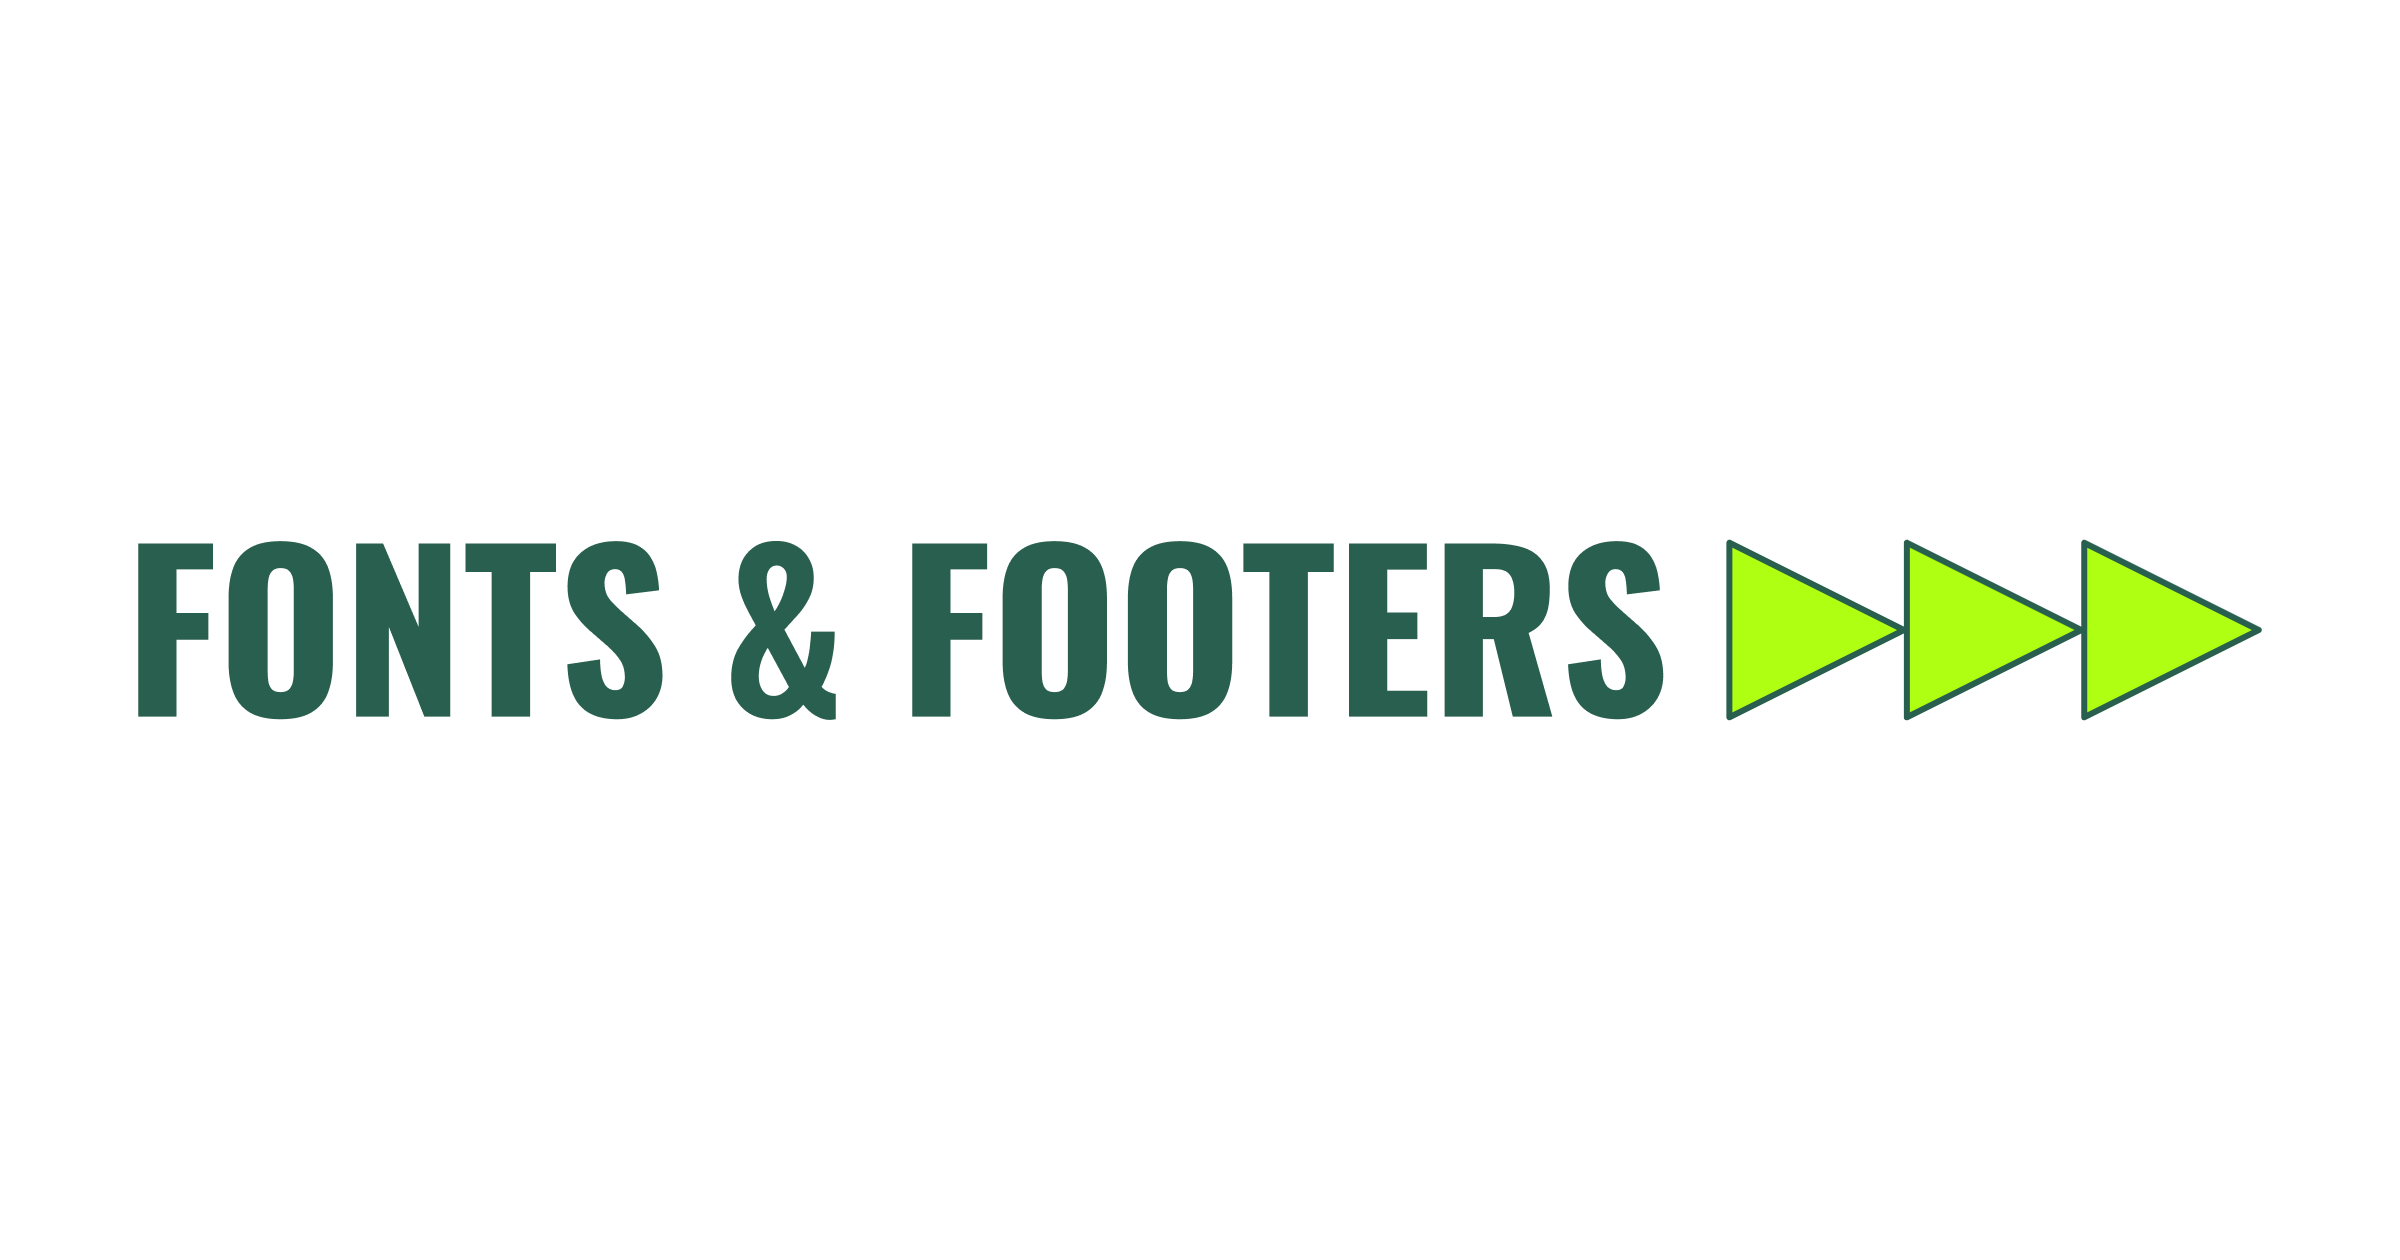
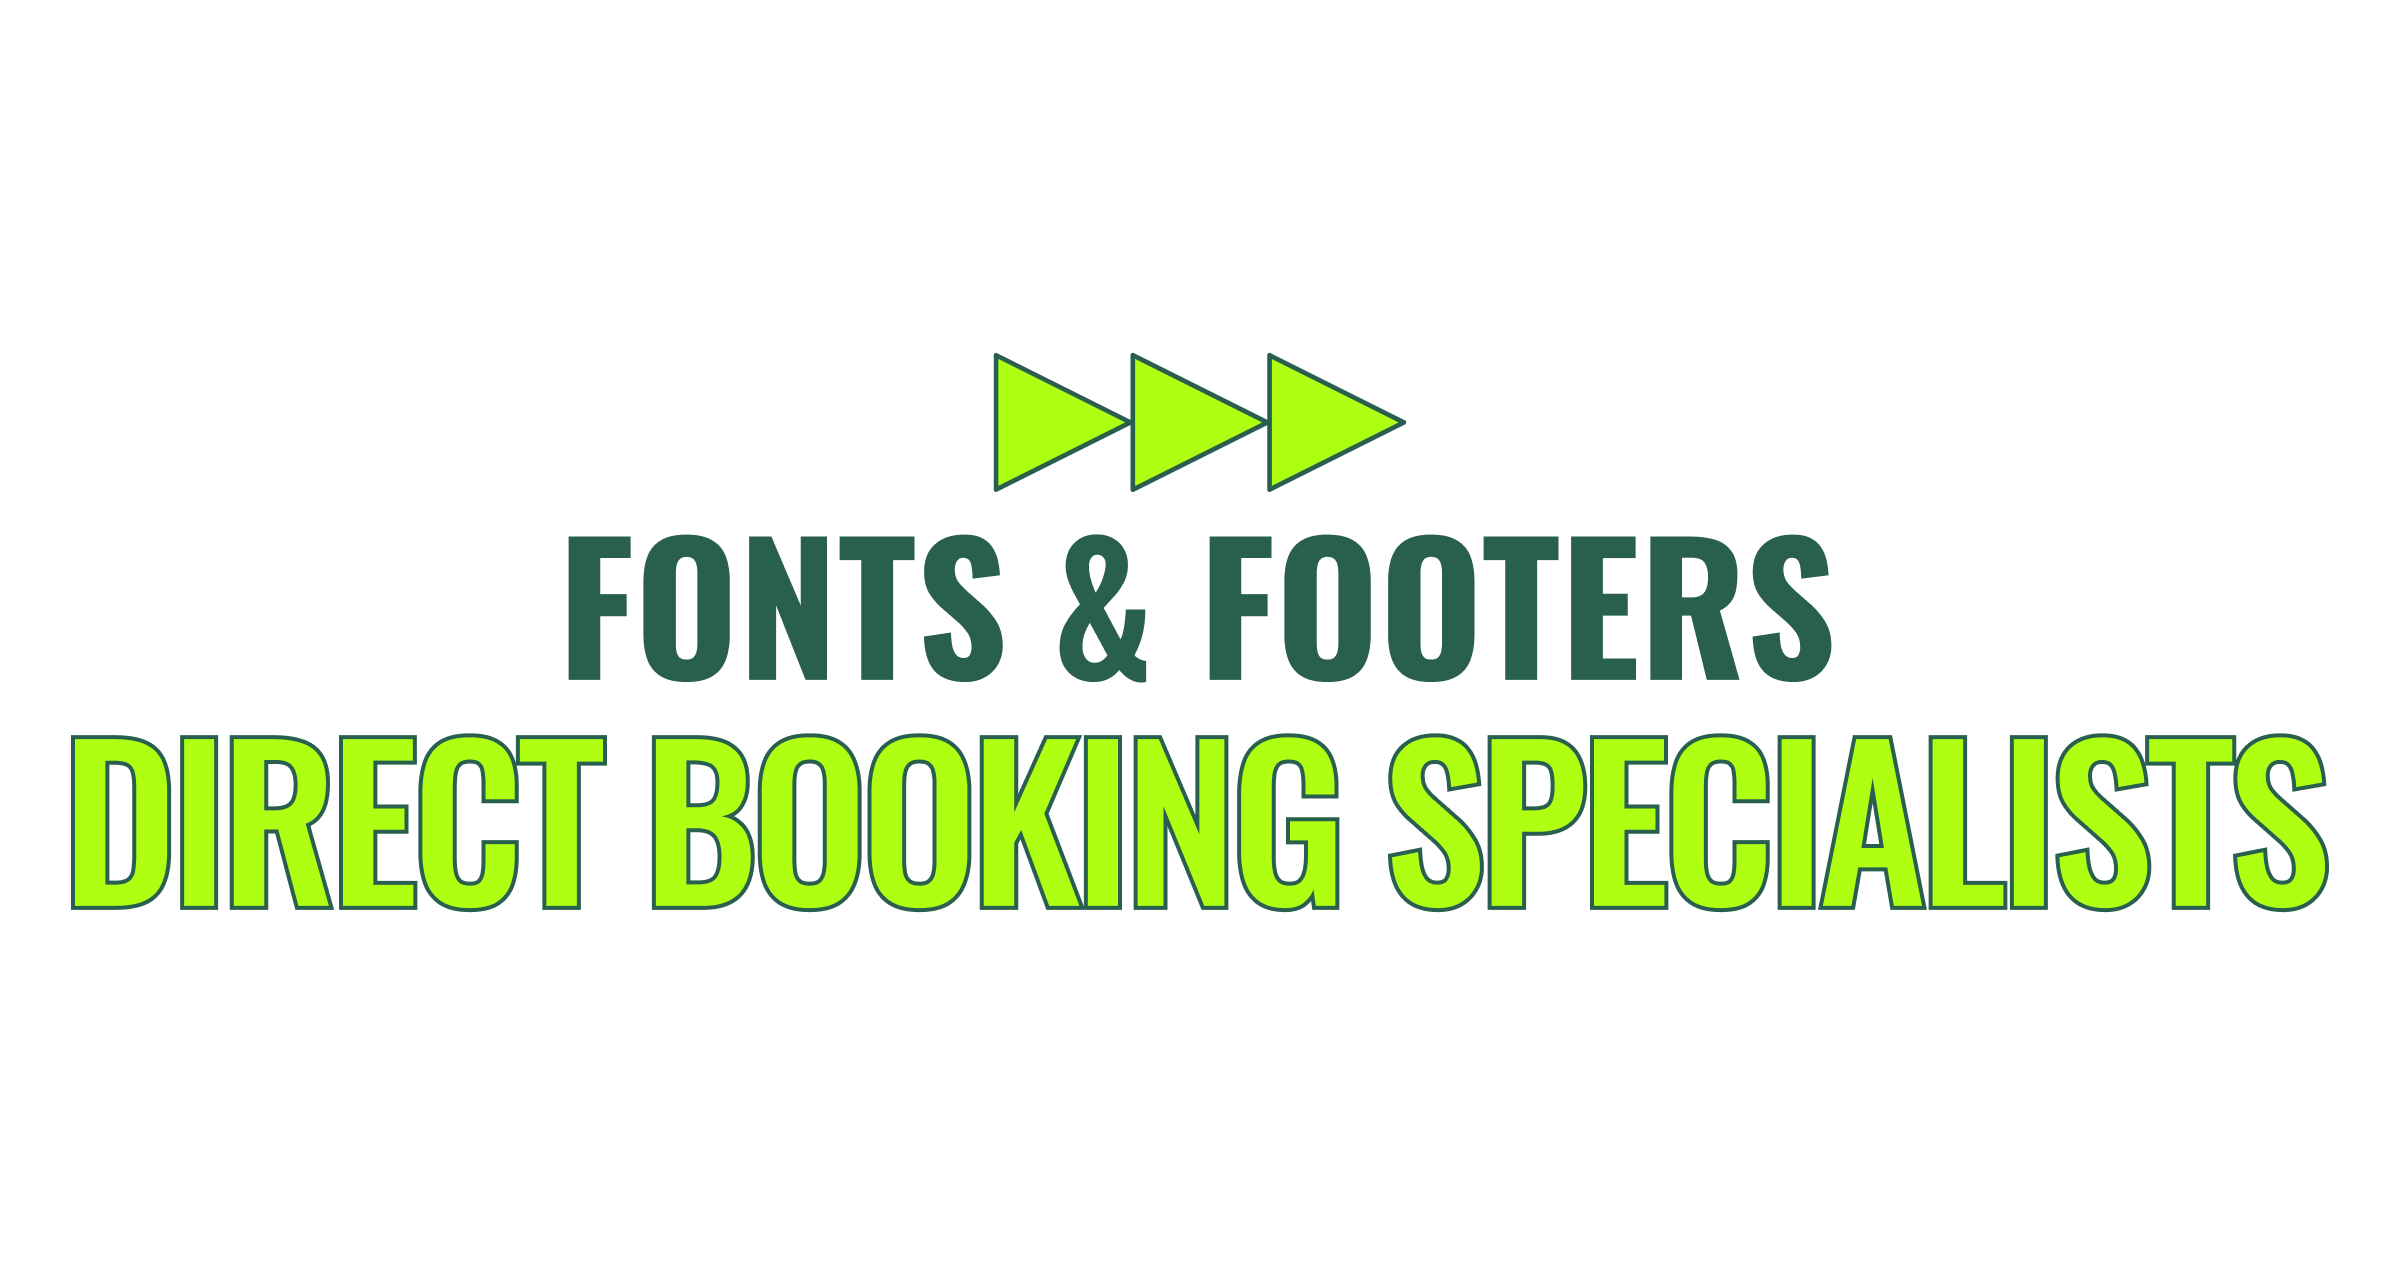
c

Changed region(s): [[0.0312, 0.2786, 0.9688, 0.7429]]

diff --git a/src/components/CallToAction/CallToAction.tsx b/src/components/CallToAction/CallToAction.tsx
@@ -30,7 +30,7 @@ const CallToAction = () => {
           >
             Fonts & Footers <br />
             <span className={styles.span}>
-              Direct Booking Specialits
+              Direct Booking Specialists
               <br />
             </span>
           </motion.h2>
